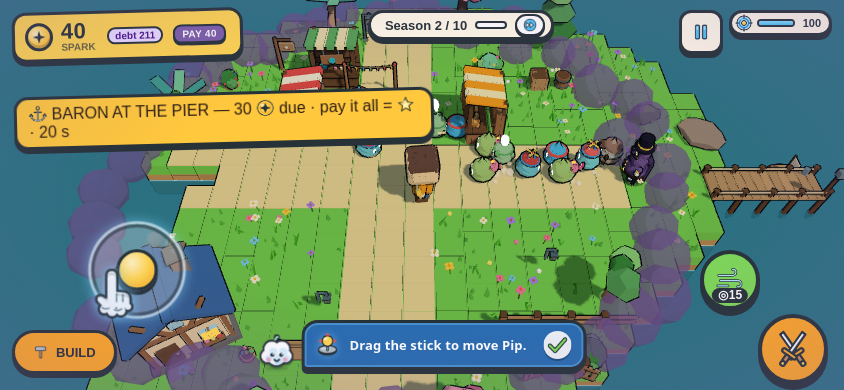
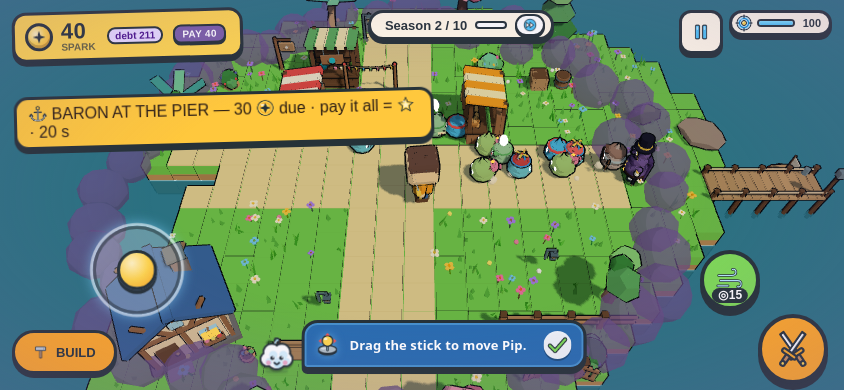
S72: pier chip pushes the chip stack below it (no overlap with the want chip), shorter short-pay hint

diff --git a/LUMEN/game/ui/hud.js b/LUMEN/game/ui/hud.js
@@ -48,9 +48,11 @@ export function mountHUD(root, opts = {}) {
   // enough in the pouch -> 'pay it all = ★' ; not enough -> how many more ✦ they would need (they can still walk off and sell? no: clock is held, so be honest).
   const pierChipDue = () => { const P = st.pier; if (!P) return; const sec = Math.ceil(P.left), cant = P.interest > 0 && !P.canPay;
     const need = Math.max(0, Math.ceil(P.need ?? (P.interest - (P.spark || 0))));
-    const hint = P.interest <= 0 ? 'repay? ' : cant ? ` · need ${need} more ✦${(P.jar | 0) > 0 ? ' · take some out of a jar ↩' : ''}` : ' · pay it all = ★';   // S72: live 'need N more' - the season sweep already emptied the tills, so the fix is a jar withdraw (↩) or a tip coin
+    const hint = P.interest <= 0 ? 'repay? ' : cant ? ` · need ${need} more${(P.jar | 0) > 0 ? ' · jar ↩ helps' : ''}` : ' · pay it all = ★';   // S72: live 'need N more' - the season sweep already emptied the tills, so the fix is a jar withdraw (↩) or a tip coin
     pierChip.classList.toggle('short', cant);
-    pierChip.innerHTML = iconize(P.interest > 0 ? `⚓ BARON AT THE PIER — ${P.interest} ✦ due${hint} · ${sec} s` : `⚓ BARON AT THE PIER — repay? · ${sec} s`); };
+    pierChip.innerHTML = iconize(P.interest > 0 ? `⚓ BARON AT THE PIER — ${P.interest} ✦ due${hint} · ${sec} s` : `⚓ BARON AT THE PIER — repay? · ${sec} s`); placeChips(); };
+  // S72: the generic chip stack (want hint, storm, NEW) sits at a fixed top; a wrapped pier chip used to be drawn over it. Push the stack below the pier chip while it shows.
+  const placeChips = () => { try { if (typeof pierChip.getBoundingClientRect !== 'function') return; if (pierChip.hidden) { chips.style.top = ''; return; } const r = pierChip.getBoundingClientRect(); if (r && r.bottom > 0) chips.style.top = Math.ceil(r.bottom + 8) + 'px'; } catch { /* layout not available (tests) */ } };
   const raidArrow = el('div', 'll-raid-arrow'); raidArrow.hidden = true; raidArrow.textContent = '➤';
   payBtn.addEventListener('click', (e) => { e.stopPropagation && e.stopPropagation(); api.pay(); });
 
@@ -192,12 +194,12 @@ export function mountHUD(root, opts = {}) {
     bus.on('pier:due', (p) => { st.pier = { interest: p?.interest || 0, left: p?.waitCap ?? 20, repay: false, spark: p?.spark ?? 0, canPay: p?.canPay !== false, jar: p?.jar || 0 }; pierChip.hidden = false; pierChip.classList.remove('repay'); pierChipDue(); }),
     bus.on('pier:pouch', (p) => { if (!st.pier || st.pier.repay || !p) return; st.pier.canPay = !!p.canPay; st.pier.need = p.need; st.pier.spark = p.spark; st.pier.jar = p.jar || 0; pierChipDue(); }),   // S72
     bus.on('pier:tick', (p) => { if (!st.pier || st.pier.repay || !p) return; st.pier.left = p.left; pierChipDue(); }),
-    bus.on('pier:paid', () => { if (!st.pier) return; st.pier.repay = true; pierChip.classList.add('repay'); const T = typeof document !== 'undefined' && document.body?.classList?.contains('is-touch'); pierChip.innerHTML = iconize(T ? '✓ PAID — tap the Baron again to repay debt (−20 ✦ each), walk away to leave' : '✓ PAID — tap E on him again to repay debt (−20 ✦ each), walk away to leave'); }),   // S70: touch wording (no E key on a phone)
-    bus.on('pier:short', (p) => { if (!st.pier) return; st.pier.repay = true; pierChip.classList.add('repay'); pierChip.innerHTML = iconize(`✗ SHORT — ${p?.shortfall || 0} ✦ added to the debt`); }),
-    bus.on('pier:repaid', (p) => { if (!st.pier) return; pierChip.innerHTML = iconize(`✓ REPAID ${p?.total || p?.amount || 0} ✦ — debt ${p?.debt ?? '?'} ✦ · ${typeof document !== 'undefined' && document.body?.classList?.contains('is-touch') ? 'tap him again' : 'tap E again'} or walk away`); }),
-    bus.on('pier:done', () => { st.pier = null; pierChip.hidden = true; }),
-    bus.on('pier:skip', () => { st.pier = null; pierChip.hidden = true; }),
-    bus.on('game:start', () => { st.pier = null; pierChip.hidden = true; }),
+    bus.on('pier:paid', () => { if (!st.pier) return; st.pier.repay = true; pierChip.classList.add('repay'); const T = typeof document !== 'undefined' && document.body?.classList?.contains('is-touch'); pierChip.innerHTML = iconize(T ? '✓ PAID — tap the Baron again to repay debt (−20 ✦ each), walk away to leave' : '✓ PAID — tap E on him again to repay debt (−20 ✦ each), walk away to leave');  placeChips(); }),   // S70: touch wording (no E key on a phone)
+    bus.on('pier:short', (p) => { if (!st.pier) return; st.pier.repay = true; pierChip.classList.add('repay'); pierChip.innerHTML = iconize(`✗ SHORT — ${p?.shortfall || 0} ✦ added to the debt`);  placeChips(); }),
+    bus.on('pier:repaid', (p) => { if (!st.pier) return; pierChip.innerHTML = iconize(`✓ REPAID ${p?.total || p?.amount || 0} ✦ — debt ${p?.debt ?? '?'} ✦ · ${typeof document !== 'undefined' && document.body?.classList?.contains('is-touch') ? 'tap him again' : 'tap E again'} or walk away`);  placeChips(); }),
+    bus.on('pier:done', () => { st.pier = null; pierChip.hidden = true; placeChips(); }),
+    bus.on('pier:skip', () => { st.pier = null; pierChip.hidden = true; placeChips(); }),
+    bus.on('game:start', () => { st.pier = null; pierChip.hidden = true; placeChips(); }),
     bus.on('raid:end', (p) => { if (st.raids && p) delete st.raids[p.enemyId]; if (!st.raids || !Object.keys(st.raids).length) { raidChip.hidden = true; raidArrow.hidden = true; } }),
     bus.on('enemy:gone', () => { st.raids = {}; raidChip.hidden = true; raidArrow.hidden = true; }),
     bus.on('game:start', () => { st.raids = {}; raidChip.hidden = true; raidArrow.hidden = true; }),
